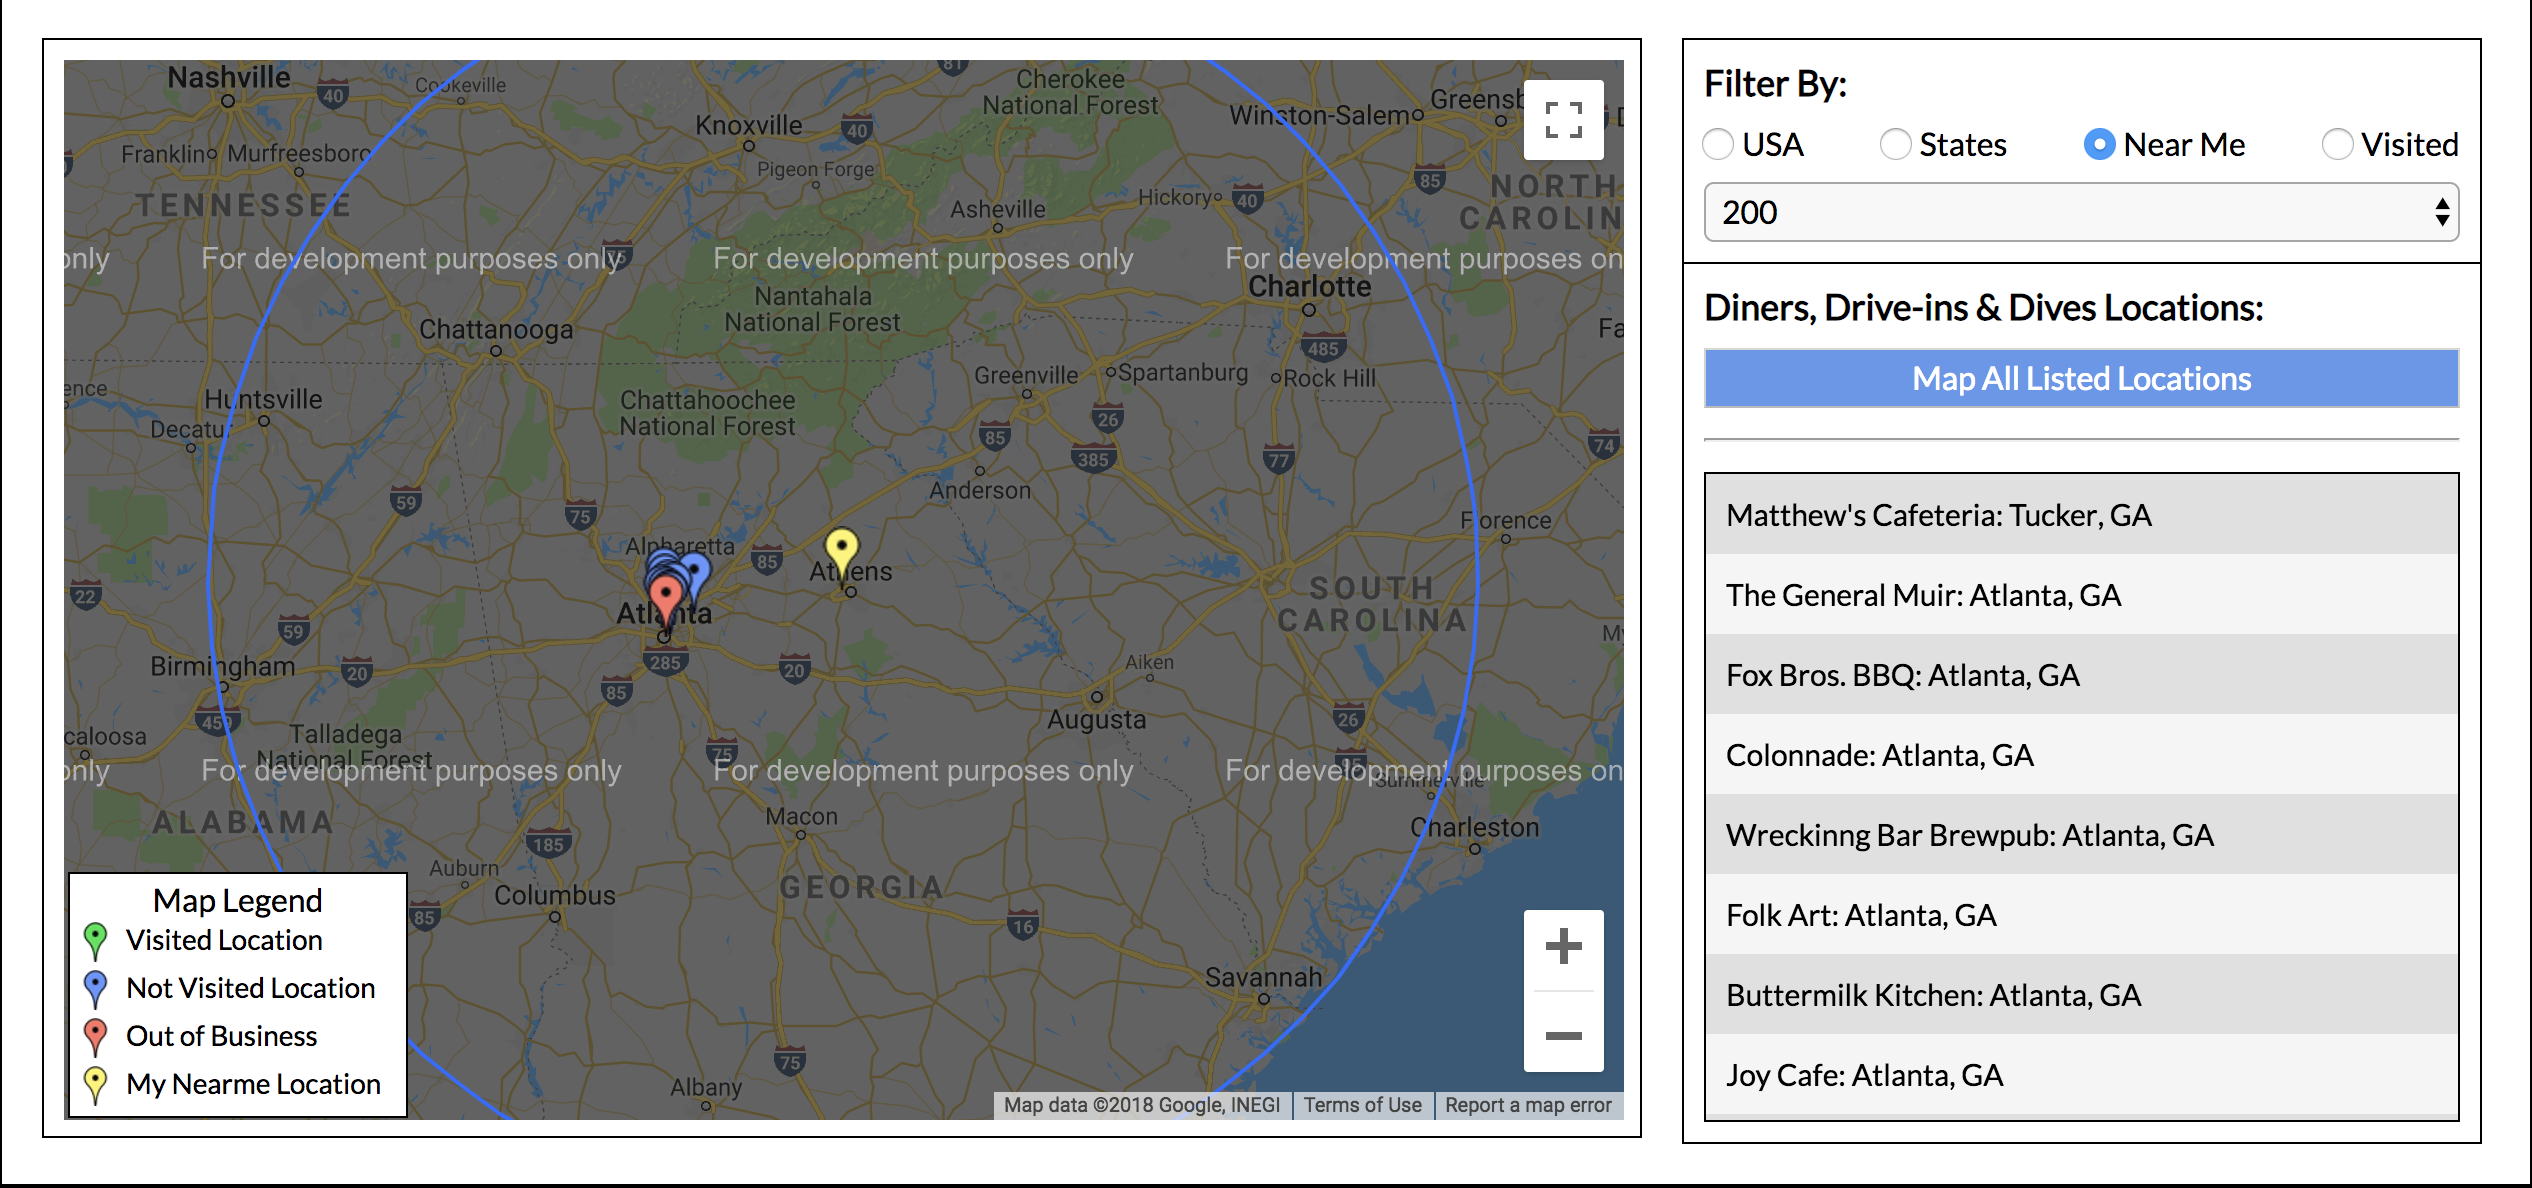
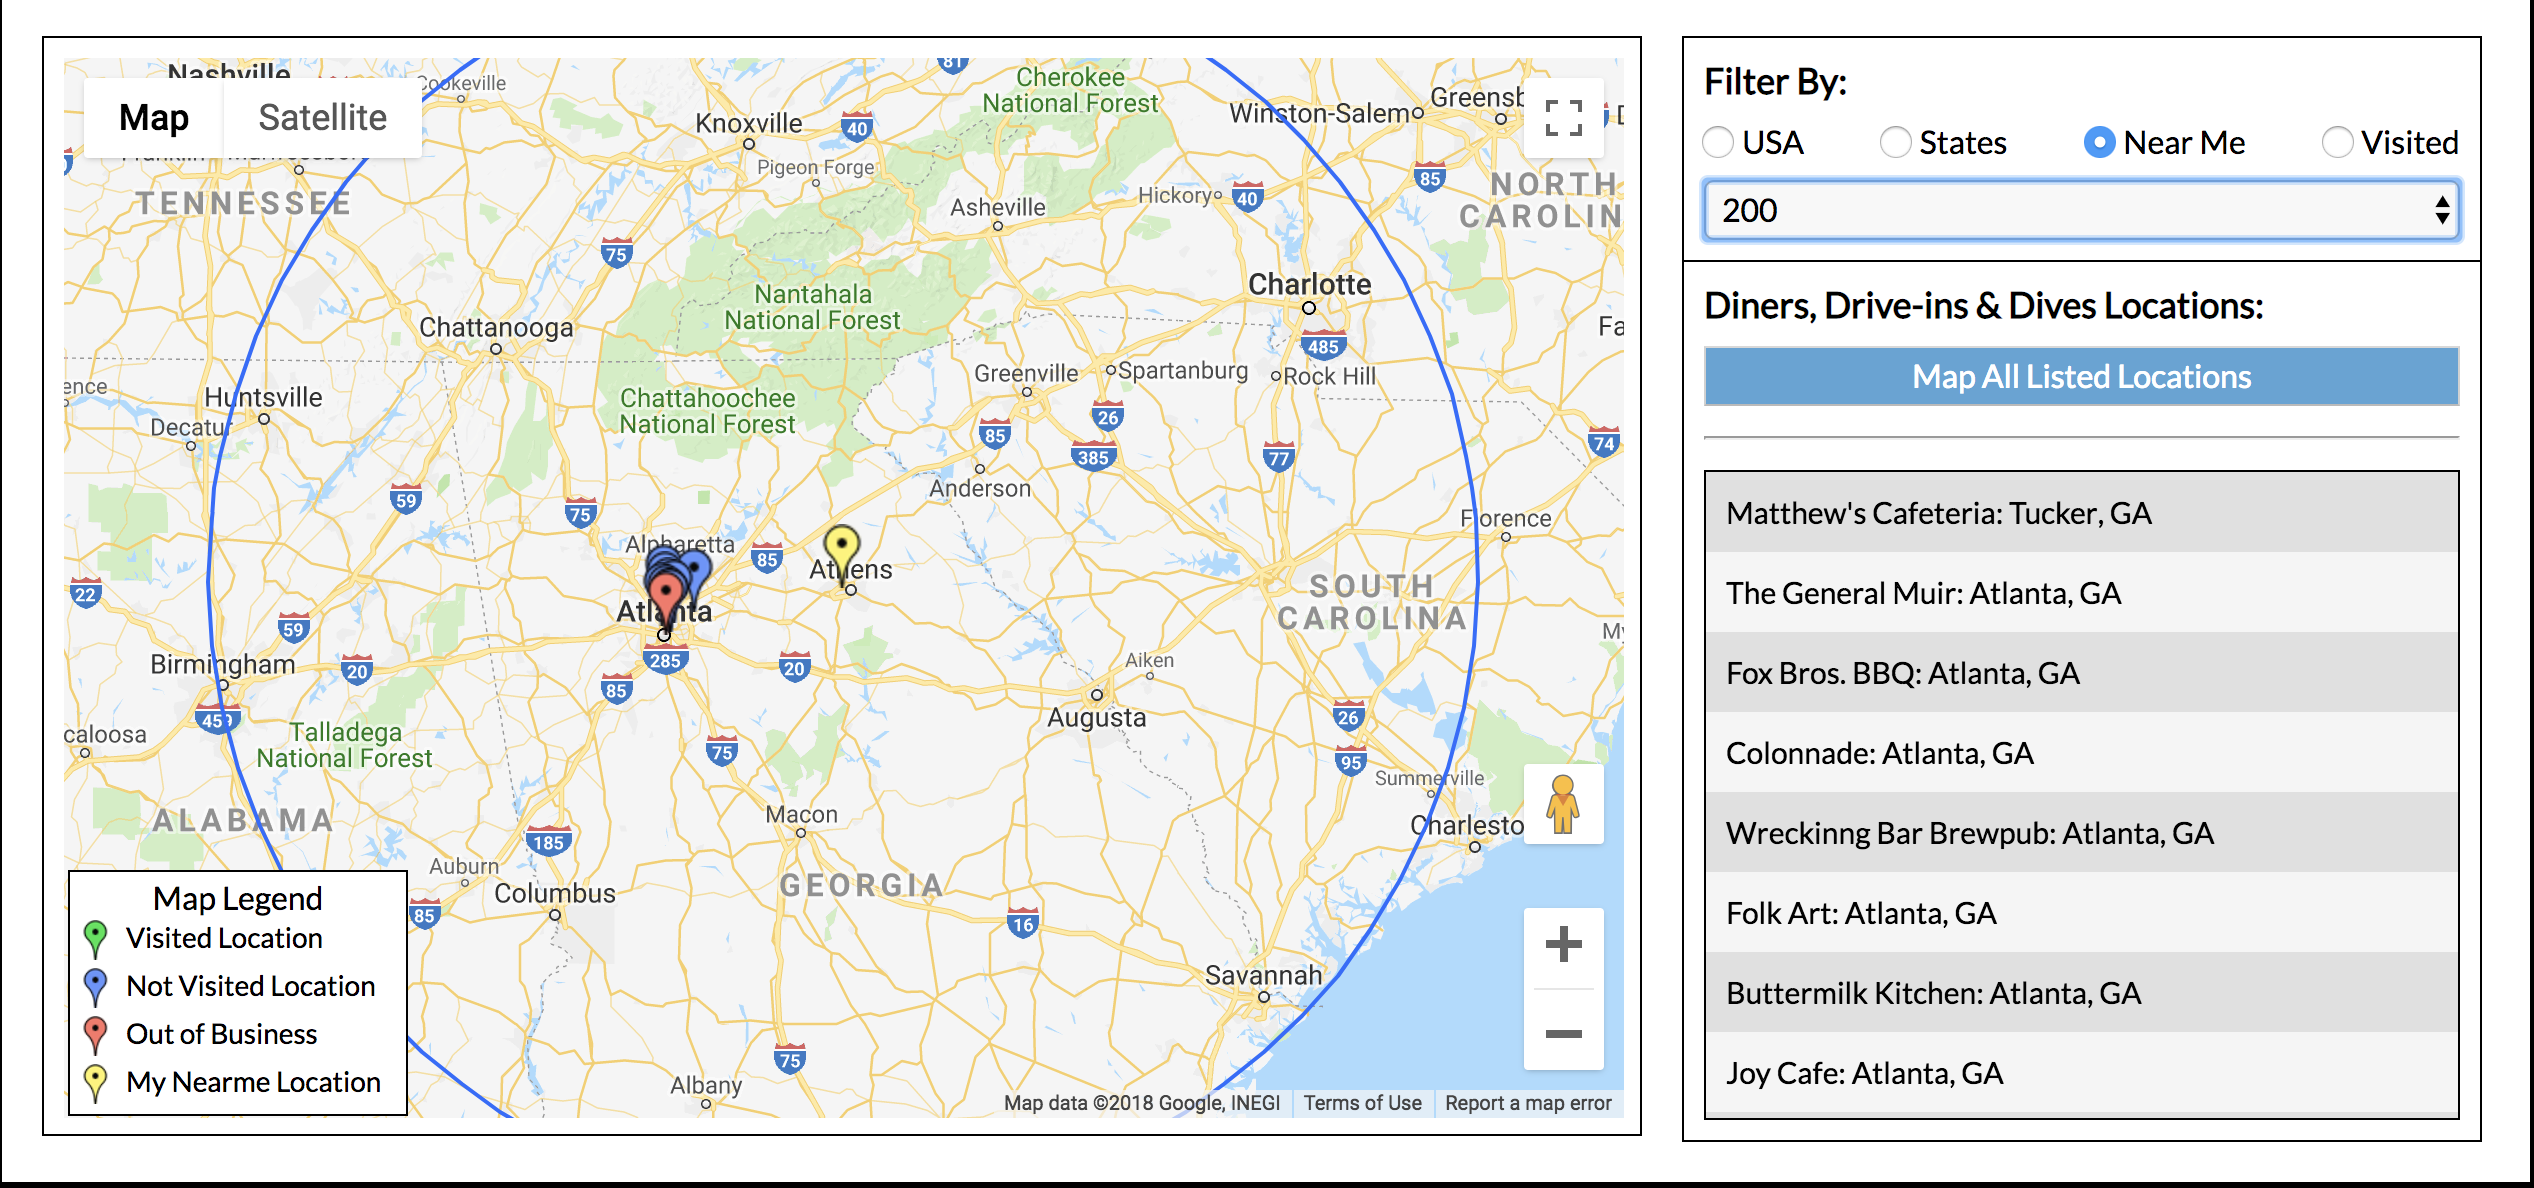
About.js styled

diff --git a/src/components/About.js b/src/components/About.js
@@ -7,7 +7,6 @@ import map_state from '../images/about_page/map_state.png';
 import map_nearme from '../images/about_page/map_nearme.png';
 import map_visited from '../images/about_page/map_visited.png';
 import review from '../images/about_page/review.png';
-
 import './about.css';
 
 class About extends Component {
@@ -50,7 +49,7 @@ class About extends Component {
                   <div className="about_dashboard_content_title">Filter By: USA</div>
                   <div className="about_dashboard_content">
                     <p>When the Diners Drive-ins and Dives Tracker application loads, the User is presented with all Triple D locations in the Lower 48 states.</p>
-                    <p>Alaksa and Hawaii Triple D locations can be found via the US State Filter (see below).</p>
+                    <p>Alaska and Hawaii Triple D locations can be found via the US State Filter (see below).</p>
                   </div>
                 </div>
             </article>
@@ -61,8 +60,8 @@ class About extends Component {
                 <div className="about_dashboard_content_title">Filter By: States</div>
                 <div className="about_dashboard_content">
                   <p>Find Triple D locations by State.</p>
-                  <p>In any Filtered view, you can click a listed Location and zoom into that particular location on the map.</p>
-                  <p>Clicking the "Map All Listed Locations" button will zoom back out to display all locations in the current list.</p>
+                  <p>In any Filtered View, you can click a listed Location and zoom into that particular location on the map.</p>
+                  <p>Clicking the "Map All Listed Locations" button will zoom back out to display all locations in the current Locations list.</p>
                 </div>
               </div>
             </article>
@@ -70,7 +69,7 @@ class About extends Component {
             <article className="about_dashboard_article">
               <img className="about_dashboard_article_image" src={map_nearme} alt=""/>
               <div className="about_dashboard_content_wrapper">
-                <div className="about_dashboard_content_title">Filter By: Nearme</div>
+                <div className="about_dashboard_content_title">Filter By: Near Me</div>
                 <div className="about_dashboard_content">
                   <p>When road tripping, Filter By Nearme comes in super handy.</p>
                   <p>Find locations within 20, 50, 100, 200 or 300 mile radii.</p>
@@ -97,12 +96,12 @@ class About extends Component {
             <article className="about_review_article">
               <img className="about_review_article_image" src={review} alt=""/>
               <div className="about_review_content_wrapper">
-                <div className="about_review_content_title">Write a review.</div>
+                <div className="about_review_content_title">Reviews</div>
                 <div className="about_review_content">
                   <p>As you visit Triple D locations, write a review.</p>
-                  <p>When the review is saved, the location Marker will turn green to let you know you have "been there and done that".</p>
+                  <p>When the review is saved, the Location Marker will turn green to let you know you have "been there and done that".</p>
                   <p>Your Reviews are private to you and only you.</p>
-                  <p>Not only can you Edit and Delete any review, you can also save multiple reviews for each time you visit a Triple D location.</p>
+                  <p>Not only can you Edit and Delete any review, you may also save multiple reviews for each time you visit a Triple D location.</p>
                 </div>
               </div>
             </article>

diff --git a/src/components/about.css b/src/components/about.css
@@ -4,19 +4,16 @@
   font-size: 40px;
   font-style: italic;
   color: #fff;
-  /*color: paleturquoise;*/
   position: absolute;
   top: 10px;
   left: 20px;
   text-shadow: 1px 0 0 #000, 0 -1px 0 #000, 0 1px 0 #000, -1px 0 0 #000;
 }
-
 .about_sections_wrapper {
   height: 90vh;
   overflow-y: auto;
   padding: 0 20px 20px 20px;
 }
-
 .about_overview_section_title,
 .about_dashboard_section_title,
 .about_review_section_title {
@@ -37,6 +34,7 @@
 }
 /* ///////////////////////////////////////////////////////////////////////// */
 /* Overview -BEGIN  //////////////////////////////////////////////////////// */
+/* ///////////////////////////////////////////////////////////////////////// */
 .about_overview_section {
   margin-top: 10px;
 }
@@ -52,24 +50,25 @@
   color: white;
   /*text-shadow: 1px 0 0 #000, 0 -1px 0 #000, 0 1px 0 #000, -1px 0 0 #000;*/
 }
+/* ///////////////////////////////////////////////////////////////////////// */
 /* Overview - END  ///////////////////////////////////////////////////////// */
 /* ///////////////////////////////////////////////////////////////////////// */
 
 /* ///////////////////////////////////////////////////////////////////////// */
-/* Dashboard - BEGIN  ////////////////////////////////////////////////////// */
+/* Dashboard / Reviews - BEGIN  //////////////////////////////////////////// */
+/* ///////////////////////////////////////////////////////////////////////// */
 .about_dashboard_section,
 .about_review_section {
   margin-top: 40px;
 }
+/*.about_dashboard_article {*/
+  /*margin-bottom: 15px;*/
+/*}*/
 .about_dashboard_article,
 .about_review_article {
   display: flex;
   background-color: #5BA3D7;
   margin-bottom: 15px;
-}
-.about_review_article {
-  display: flex;
-  background-color: #5BA3D7;
 }
 .about_dashboard_content_wrapper,
 .about_review_content_wrapper {
@@ -89,7 +88,7 @@
 .about_review_content p {
   font-size: 20px;
   color: white;
-  /*text-shadow: 1px 0 0 #000, 0 -1px 0 #000, 0 1px 0 #000, -1px 0 0 #000;*/
 }
 /* ///////////////////////////////////////////////////////////////////////// */
-/* Dashboard - END  //////////////////////////////////////////////////////// */
+/* Dashboard / Reviews - END  ////////////////////////////////////////////// */
+/* ///////////////////////////////////////////////////////////////////////// */

diff --git a/src/components/dashboard/Map.js b/src/components/dashboard/Map.js
@@ -196,7 +196,7 @@ class Map extends Component {
         </div>
         <div className="map_legend_row">
           <img className="map_legend_icon" src={yellowMarker} alt=""/>
-          <div className="map_legend_icon_desc">My Nearme Location</div>
+          <div className="map_legend_icon_desc">My Near Me Location</div>
         </div>
       </div>
     )
